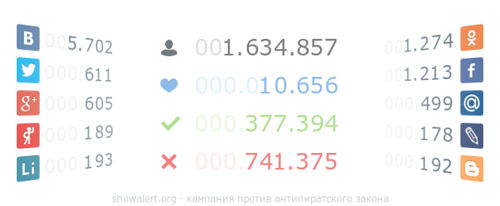
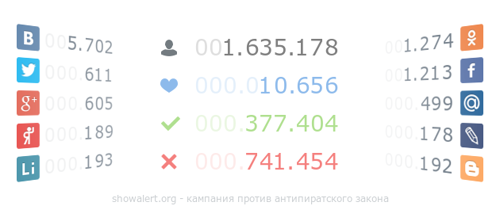
some updates

Changed region(s): [[0.54, 0.1748, 0.69, 0.2913], [0.57, 0.7282, 0.69, 0.8447], [0.57, 0.5534, 0.66, 0.6408]]

diff --git a/votes.js b/votes.js
@@ -1,1 +1,1 @@
-window.lk.votes(25913)
+window.lk.votes(25932)
